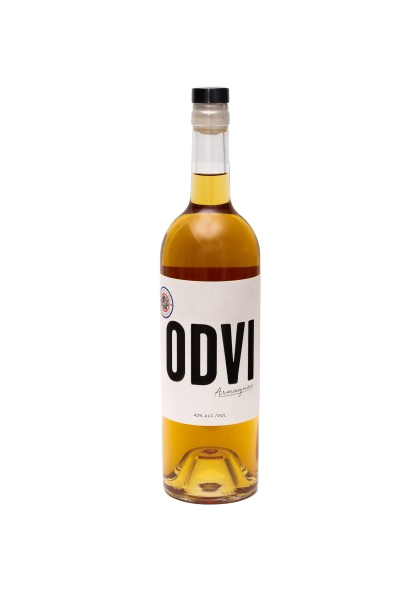
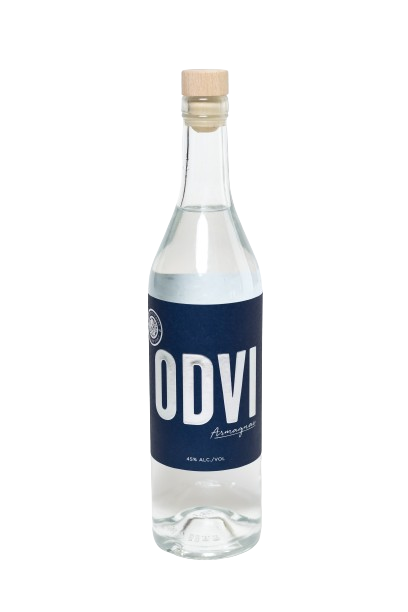
add white bottle

Changed region(s): [[0.3529, 0.0931, 0.6471, 0.9314]]

diff --git a/src/Components/CocktailsSection/CocktailsSection.tsx b/src/Components/CocktailsSection/CocktailsSection.tsx
@@ -234,7 +234,7 @@ export const CocktailsSection = () => {
           },
           {
             name: "ODVI Blanche 45% | 70cl / 75cl",
-            icon: <Image src="../../odvi-bottle2.png" w="135px" color="blue"loading="lazy" />,
+            icon: <Image src="../../odvi-bottle2.png" w="125px" color="blue"loading="lazy" />,
           },
         ]}
         texts={[
